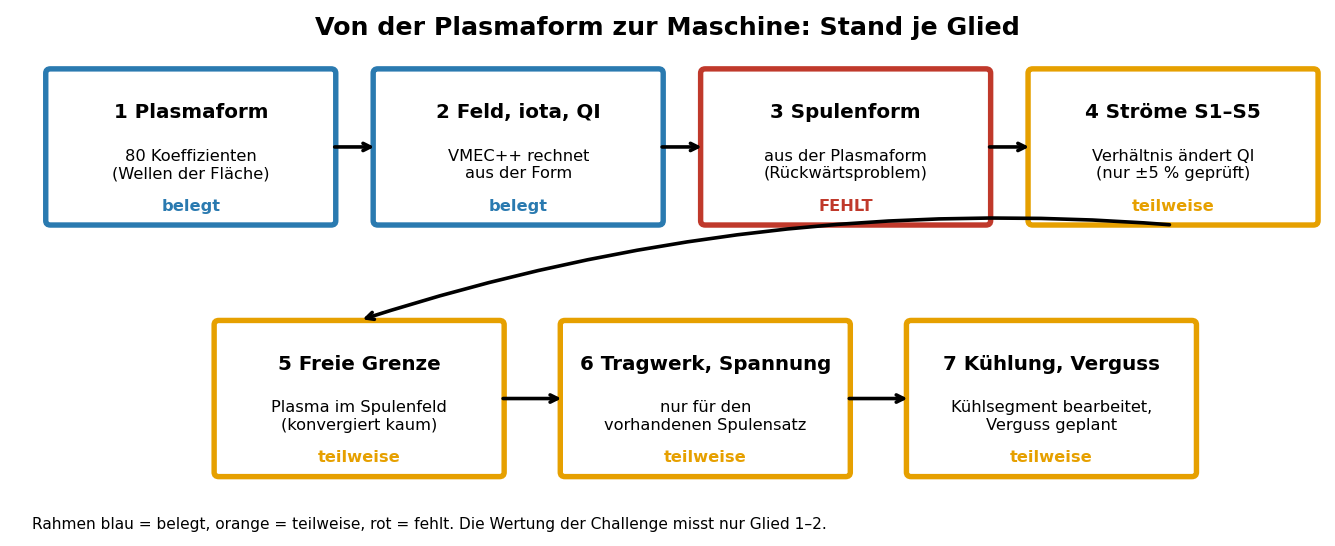
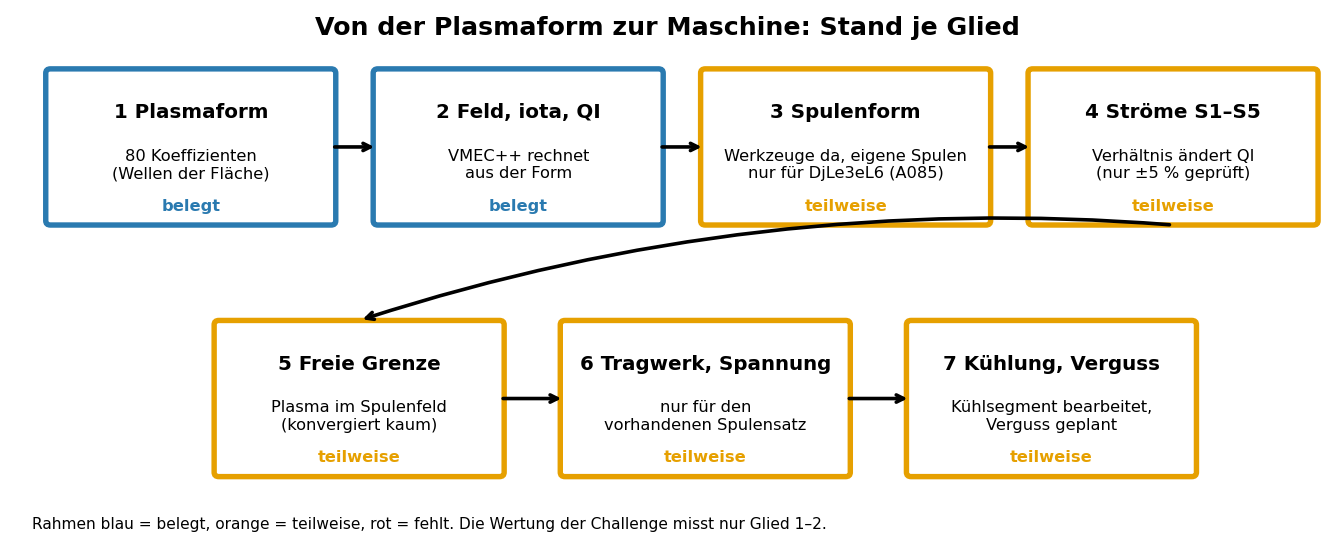
Kettenbild: Glied 3 nach B-058 teilweise

Changed region(s): [[0.5221, 0.0934, 0.7678, 0.4359]]

diff --git a/stellarator/kette_bild.py b/stellarator/kette_bild.py
@@ -8,7 +8,7 @@ FARBE = {"belegt": "#2a7ab0", "teilweise": "#e6a000", "fehlt": "#c0392b"}
 G = [
     ("1 Plasmaform", "80 Koeffizienten\n(Wellen der Fläche)", "belegt"),
     ("2 Feld, iota, QI", "VMEC++ rechnet\naus der Form", "belegt"),
-    ("3 Spulenform", "aus der Plasmaform\n(Rückwärtsproblem)", "fehlt"),
+    ("3 Spulenform", "Werkzeuge da, eigene Spulen\nnur für DjLe3eL6 (A085)", "teilweise"),
     ("4 Ströme S1–S5", "Verhältnis ändert QI\n(nur ±5 % geprüft)", "teilweise"),
     ("5 Freie Grenze", "Plasma im Spulenfeld\n(konvergiert kaum)", "teilweise"),
     ("6 Tragwerk, Spannung", "nur für den\nvorhandenen Spulensatz", "teilweise"),

diff --git a/docs/recherche/spulen_suche/kette_plasma_maschine.md b/docs/recherche/spulen_suche/kette_plasma_maschine.md
@@ -8,7 +8,7 @@
 |---|---|---|
 | 1 Plasmaform | belegt | Koeffizienten der Fläche, Datensatz und eigene Proben |
 | 2 Feld, iota, QI | belegt | VMEC++ rechnet aus der Form (B-050 bis B-056) |
-| 3 Spulenform | **fehlt** | Rückwärtsproblem Fläche → Spulen; nur für DjLe3eL6 gibt es einen Spulensatz (Machbarkeit wird geprüft) |
+| 3 Spulenform | teilweise | Werkzeuge installiert (simsopt, DESC); eigene Spulen A085 nur für DjLe3eL6 (Feldfehler 6,6e-4, Proxima 2,4e-3); für neue Formen nicht gerechnet (B-058, nicht von mir nachgerechnet) |
 | 4 Ströme S1–S5 | teilweise | Verhältnis ändert QI; lineares Modell nur bis ±5 % (qi_experiment_bericht.md) |
 | 5 Freie Grenze | teilweise | konvergiert nur mit Sonderzuständen; Gegenprüfung der Ausreißer scheiterte (B-057) |
 | 6 Tragwerk, Spannung | teilweise | nur für den vorhandenen Spulensatz (nicht neu geprüft) |
@@ -16,4 +16,4 @@
 
 **Kernaussage.** Es gibt keine durchgehende Verbindung von der Plasmaform zu den Bauteilen. Wir wissen, dass die Ströme QI über das Verhältnis der Gruppen steuern, nicht über Nähe oder Lage der Spulen (B-053, B-054). Eine Regel, wie sich die Spulenform bei geänderter Plasmaform ändert, haben wir nicht.
 
-**English summary.** The chain from plasma shape to a built machine has seven links. The challenge score only covers links 1–2 (shape and QI). Link 3 (coil shape from plasma shape, an inverse problem) is missing; links 4–7 exist only partially or for one coil set. We found that currents (ratios between coil groups), not coil proximity, steer QI.
+**English summary.** The chain from plasma shape to a built machine has seven links. The challenge score only covers links 1–2 (shape and QI). Link 3 (coil shape from plasma shape, an inverse problem) is only partly done: tools are installed and own coils exist for one shape; links 4–7 exist only partially or for one coil set. We found that currents (ratios between coil groups), not coil proximity, steer QI.
